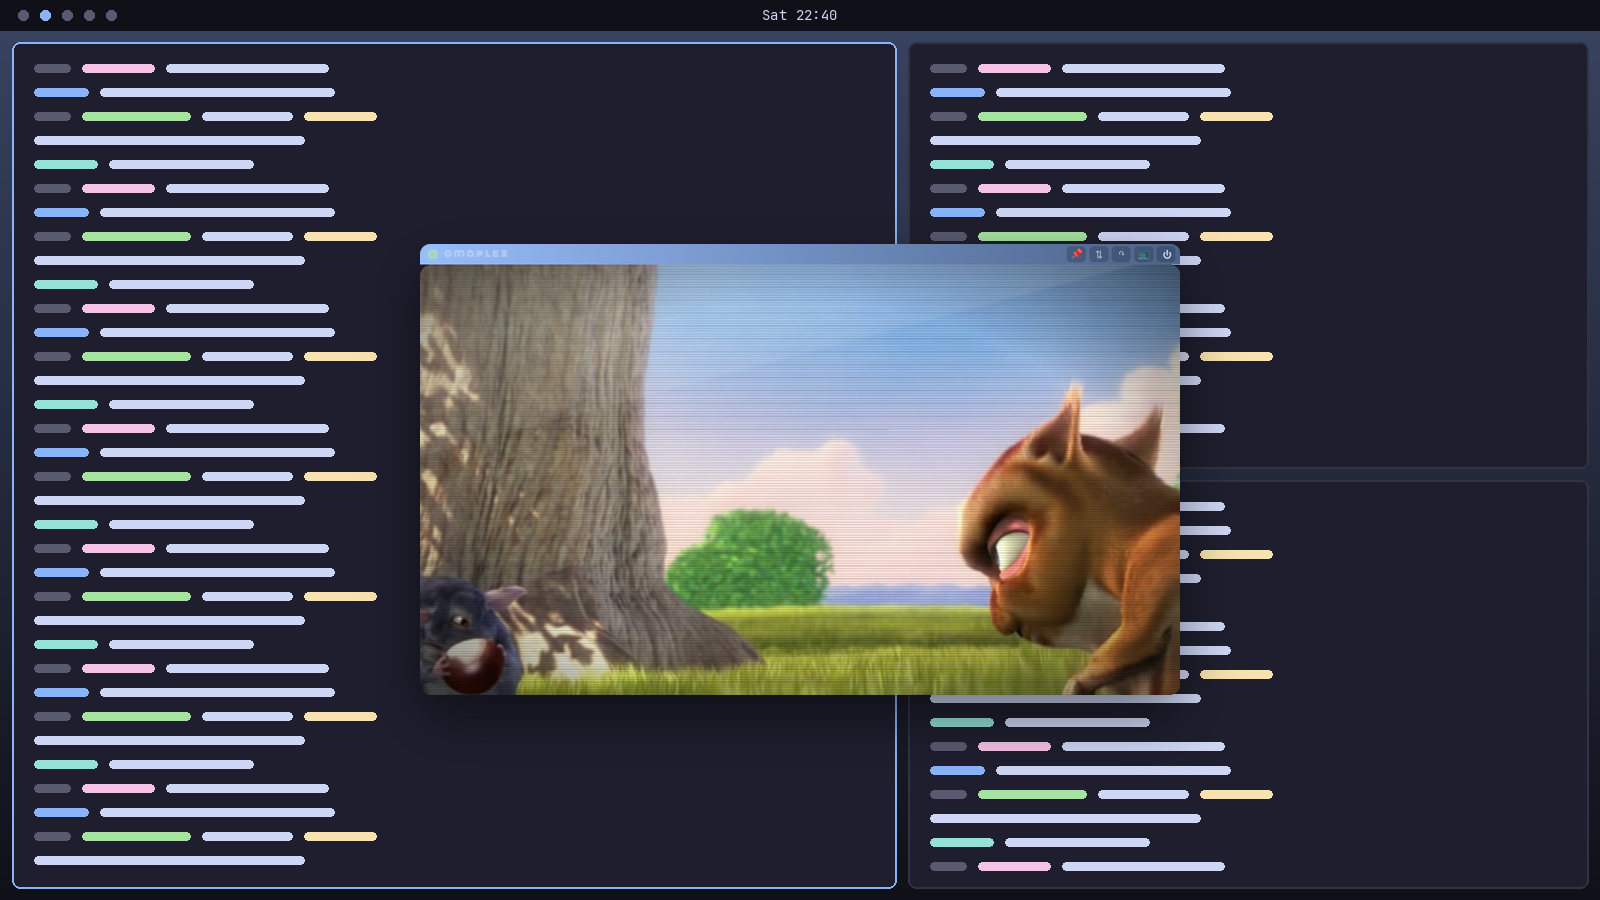
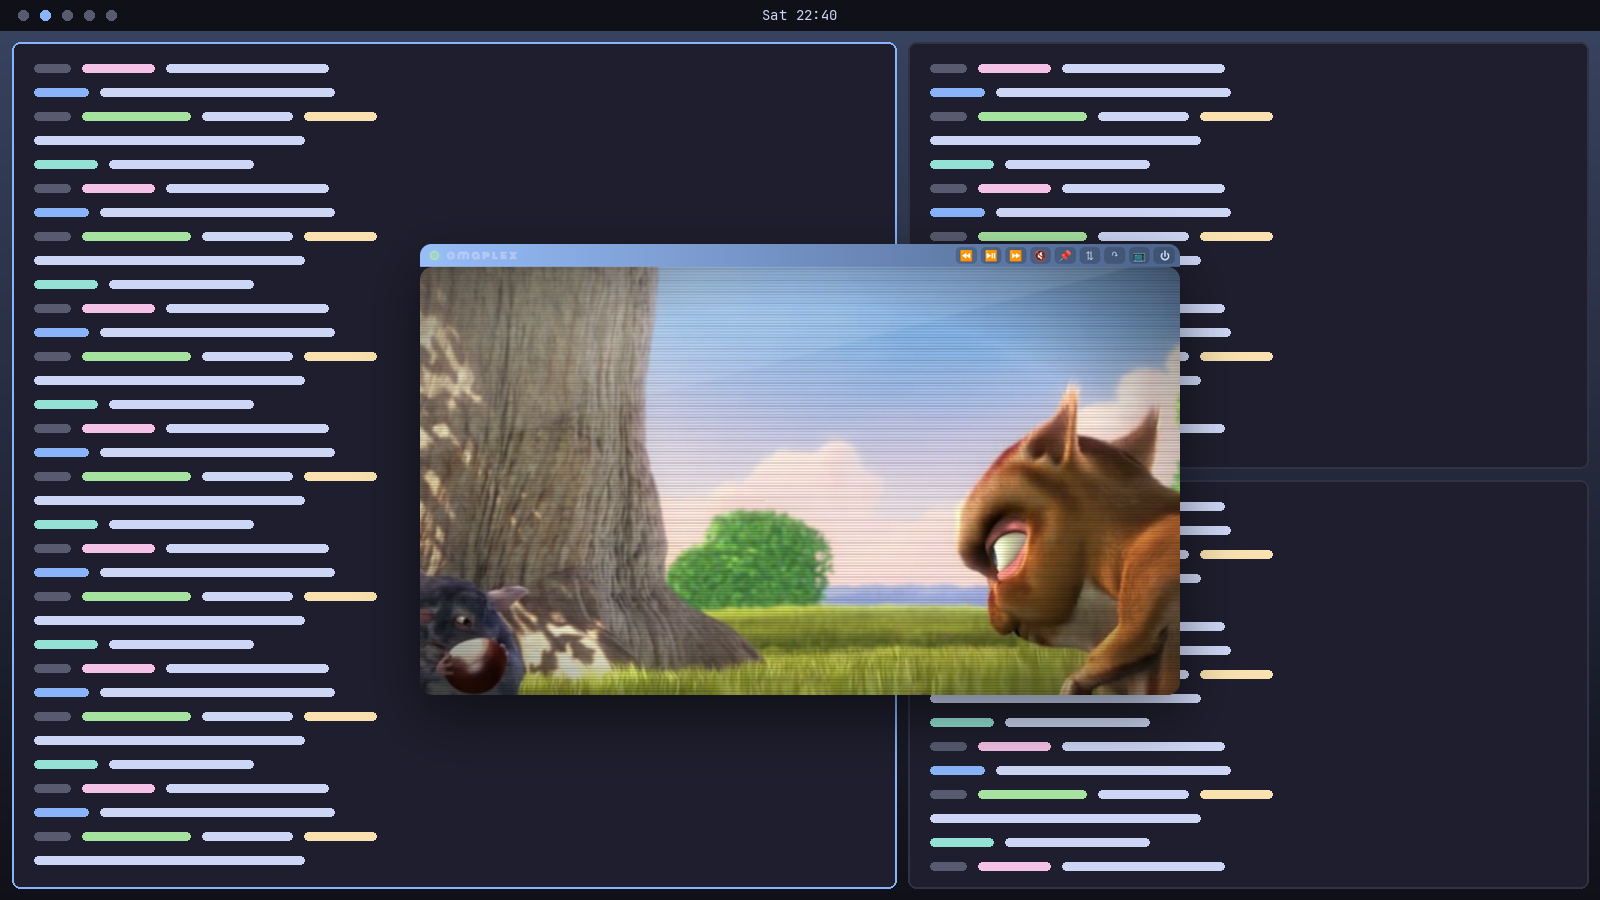
Remember dragged spots, add AWAY, captions and CLI transport
- A hand-dragged/resized TV comes back where you left it (per monitor);
  SIZE, MOVE and BARE presets take over again.
- AWAY switch: pause when stashed, resume when brought back, via
  Hyprland's event socket.
- Each new title gets an OSD caption from the Media Session metadata.
- omaplex play-pause|next|previous|forward|back control the TV directly,
  whichever MPRIS player is active.
- Regenerate the README screenshots for the new panel.

diff --git a/src/main.js b/src/main.js
@@ -2,6 +2,7 @@
 const { app, BrowserWindow, ipcMain, session } = require("electron");
 const { execFile } = require("node:child_process");
 const fs = require("node:fs");
+const net = require("node:net");
 const os = require("node:os");
 const path = require("node:path");
 
@@ -26,6 +27,8 @@ const DEFAULTS = {
   muted: false,
   profile: "", // Plex Home profile to pick at "Select User" (omaplex profile)
   pin: "",
+  away: false, // pause while stashed, resume when brought back
+  geom: null, // where you last dragged/resized it: { monitor, x, y, w, h }
 };
 
 // Window sizes (logical px) for the S/M/L presets, with and without the cabinet.
@@ -100,6 +103,38 @@ async function applyPin() {
   await dispatch(`hl.dsp.window.pin({ window = "${windowSelector(client)}", action = "${state.pinned ? "on" : "off"}" })`);
 }
 
+// Reapply a hand-dragged position/size if its monitor is still around.
+async function restoreGeom() {
+  const g = state.geom;
+  const monitors = (await hyprJson("monitors")) || [];
+  const client = await ourClient();
+  if (!g || !client || !monitors.some((m) => m.name === g.monitor)) return false;
+  const sel = windowSelector(client);
+  await dispatch(`hl.dsp.window.resize({ window = "${sel}", x = ${g.w}, y = ${g.h} })`);
+  await dispatch(`hl.dsp.window.move({ window = "${sel}", x = ${g.x}, y = ${g.y} })`);
+  lastGeom = JSON.stringify(g);
+  return true;
+}
+
+// Hyprland doesn't tell Wayland clients where they are, so check now and then
+// (and on the way out) whether the TV has been dragged or resized by hand.
+let lastGeom;
+async function trackGeom() {
+  const client = await ourClient();
+  if (!client || client.workspace.name.startsWith("special:")) return;
+  const monitors = (await hyprJson("monitors")) || [];
+  const mon = monitors.find((m) => m.id === client.monitor);
+  if (!mon) return;
+  const [x, y] = client.at;
+  const [w, h] = client.size;
+  const next = JSON.stringify({ monitor: mon.name, x, y, w, h });
+  if (lastGeom === undefined) lastGeom = next; // first sighting: nothing moved yet
+  if (next === lastGeom) return;
+  lastGeom = next;
+  state.geom = JSON.parse(next);
+  saveState();
+}
+
 async function place() {
   const client = await ourClient();
   const monitors = (await hyprJson("monitors")) || [];
@@ -120,6 +155,35 @@ async function place() {
   const sel = windowSelector(client);
   await dispatch(`hl.dsp.window.resize({ window = "${sel}", x = ${w}, y = ${h} })`);
   await dispatch(`hl.dsp.window.move({ window = "${sel}", x = ${x}, y = ${y} })`);
+  // A preset (SIZE / MOVE / BARE) replaces any hand-dragged spot.
+  state.geom = null;
+  saveState();
+  lastGeom = JSON.stringify({ monitor: mon.name, x, y, w, h });
+}
+
+// Tell the renderer when the TV is stashed on / brought back from the special
+// workspace, straight from Hyprland's event socket.
+function watchStash() {
+  const sig = process.env.HYPRLAND_INSTANCE_SIGNATURE;
+  const dir = process.env.XDG_RUNTIME_DIR;
+  if (!sig || !dir) return;
+  const sock = net.connect(path.join(dir, "hypr", sig, ".socket2.sock"));
+  let buf = "";
+  sock.on("data", async (chunk) => {
+    buf += chunk;
+    const lines = buf.split("\n");
+    buf = lines.pop();
+    for (const line of lines) {
+      const [event, data] = line.split(">>");
+      if (event !== "movewindowv2") continue;
+      const [addr, , wsName] = data.split(",");
+      const client = await ourClient();
+      if (client && client.address.replace(/^0x/, "") === addr.replace(/^0x/, "")) {
+        win?.webContents.send("stashed", wsName.startsWith("special:"));
+      }
+    }
+  });
+  sock.on("error", () => {});
 }
 
 function readThemeColors() {
@@ -180,7 +244,8 @@ function createWindow() {
   win.once("ready-to-show", async () => {
     for (let i = 0; i < 20 && !(await ourClient()); i++) await new Promise((r) => setTimeout(r, 150));
     await applyPin();
-    await place();
+    if (!(await restoreGeom())) await place();
+    setInterval(trackGeom, 4000);
   });
 }
 
@@ -212,7 +277,10 @@ ipcMain.handle("cycle-corner", async () => {
   return state;
 });
 
-ipcMain.handle("quit", () => app.quit());
+ipcMain.handle("quit", async () => {
+  await trackGeom();
+  app.quit();
+});
 
 // One TV per profile. A second launch just forwards its arguments here.
 const primary = app.requestSingleInstanceLock();
@@ -221,6 +289,8 @@ if (!primary) {
 } else {
   app.on("second-instance", (_e, argv) => {
     if (argv.includes("--reload-theme")) return checkTheme(0);
+    const media = argv.find((a) => a.startsWith("--media="));
+    if (media) return win?.webContents.send("media", media.slice("--media=".length));
     const profile = argv.find((a) => a.startsWith("--set-profile="));
     if (profile) {
       state.profile = profile.slice("--set-profile=".length);
@@ -241,6 +311,7 @@ app.whenReady().then(() => {
   });
   createWindow();
   watchTheme();
+  watchStash();
   if (process.env.OMAPLEX_CAPTURE) require("./capture")(win, process.env.OMAPLEX_CAPTURE);
 });
 

diff --git a/src/renderer.js b/src/renderer.js
@@ -69,6 +69,7 @@ function render() {
   $("vol-label").textContent = state.muted ? "MUTE" : "VOL";
   document.querySelector('.rb[data-act="mute"]').classList.toggle("on", state.muted);
   $("bare").classList.toggle("on", state.bare);
+  $("away").classList.toggle("on", state.away);
   $("size").textContent = `SIZE ${state.size}`;
   document.querySelector('.rb[data-act="pin"]').classList.toggle("on", state.pinned);
 }
@@ -109,12 +110,12 @@ function burst(ms = 450) {
 }
 
 let osdTimer;
-function osd(text) {
+function osd(text, ms = 1400) {
   const el = $("osd");
   el.textContent = text;
   el.classList.add("show");
   clearTimeout(osdTimer);
-  osdTimer = setTimeout(() => el.classList.remove("show"), 1400);
+  osdTimer = setTimeout(() => el.classList.remove("show"), ms);
 }
 
 function wiggle() {
@@ -179,6 +180,7 @@ knob($("vol"), () => volume, async (value) => {
 
 const actions = {
   pin: () => { osd(state.pinned ? "UNPINNED" : "PINNED ★ ALL WS"); return set({ pinned: !state.pinned }); },
+  away: () => { osd(state.away ? "AWAY OFF" : "AWAY: PAUSE WHEN STASHED"); return set({ away: !state.away }); },
   ghost: () => { osd(state.ghost ? "GHOST OFF" : "GHOST ON"); return set({ ghost: !state.ghost }); },
   fx: () => set({ fx: !state.fx }),
   mute: () => { plex.setAudioMuted(!state.muted); osd(state.muted ? "SOUND ON" : "MUTE"); return set({ muted: !state.muted }); },
@@ -195,7 +197,7 @@ const actions = {
   },
 };
 
-for (const id of ["pin", "ghost", "fx", "home", "size", "corner", "bare", "play", "back", "fwd", "power"]) {
+for (const id of ["pin", "ghost", "fx", "home", "size", "corner", "bare", "away", "play", "back", "fwd", "power"]) {
   $(id).addEventListener("click", actions[id]);
 }
 $("vol").addEventListener("click", () => { if (!$("vol").dragged) actions.mute(); });
@@ -245,8 +247,11 @@ const MEDIA_HOOK = `(() => {
   window.__omaplex = (cmd, arg) => {
     const m = media();
     if (!m) return null;
+    const was = !m.paused && !m.ended;
     let ok = true;
-    if (cmd === "toggle") {
+    if (cmd === "play" || cmd === "pause") {
+      handlers[cmd] ? handlers[cmd]({ action: cmd }) : m[cmd]();
+    } else if (cmd === "toggle") {
       const action = m.paused ? "play" : "pause";
       handlers[action] ? handlers[action]({ action }) : m.paused ? m.play() : m.pause();
     } else if (cmd in SKIP) {
@@ -258,7 +263,9 @@ const MEDIA_HOOK = `(() => {
       ok = !!handlers[cmd];
       if (ok) handlers[cmd]({ action: cmd });
     }
-    return { ok, playing: !m.paused && !m.ended, volume: m.volume };
+    const md = session.metadata;
+    const title = md ? [md.artist, md.title].filter(Boolean).join(" · ") : "";
+    return { ok, was, playing: !m.paused && !m.ended, volume: m.volume, title };
   };
 })()`;
 
@@ -277,15 +284,21 @@ async function transport(cmd) {
   if (!status) return osd("NO SIGNAL");
   if (!status.ok) return osd(cmd === "nexttrack" ? "NO NEXT" : "NO PREV");
   if (cmd === "previoustrack" || cmd === "nexttrack") burst(300);
-  // Play/pause reports the state from before the toggle took effect.
-  osd(cmd === "toggle" ? (status.playing ? "❚❚ PAUSE" : "▶ PLAY") : TRANSPORT_OSD[cmd]);
+  osd(cmd === "toggle" ? (status.was ? "❚❚ PAUSE" : "▶ PLAY") : TRANSPORT_OSD[cmd]);
 }
 
-// Keep the play state and VOL knob in step with Plex; the speaker grille thumps
-// along while something is playing.
+// Keep the play state and VOL knob in step with Plex, and caption each new
+// title like an old set changing programme. The speaker grille thumps along
+// while something is playing.
+let nowPlaying = "";
 setInterval(async () => {
   const status = await media("status");
   body.classList.toggle("playing", !!status?.playing);
+  const title = status?.title || "";
+  if (title !== nowPlaying) {
+    nowPlaying = title;
+    if (title) osd(`▶ ${title.toUpperCase()}`, 4000);
+  }
   if (status && status.volume !== volume) {
     volume = status.volume;
     render();
@@ -436,6 +449,22 @@ window.addEventListener("resize", fit);
   render();
   fit();
   window.tv.onState((next) => { state = next; render(); syncPicker(); });
+  // `omaplex play-pause` and friends, forwarded by the launcher.
+  const COMMANDS = { "play-pause": "toggle", next: "nexttrack", previous: "previoustrack", forward: "seekforward", back: "seekbackward" };
+  window.tv.onMedia((cmd) => COMMANDS[cmd] && transport(COMMANDS[cmd]));
+  // AWAY: pause when stashed, and resume only what we paused.
+  let pausedAway = false;
+  window.tv.onStashed(async (stashed) => {
+    if (stashed) {
+      pausedAway = false;
+      if (!state.away || !(await media("status"))?.playing) return;
+      pausedAway = !!(await media("pause"));
+    } else if (pausedAway) {
+      pausedAway = false;
+      await media("play");
+      osd("▶ WELCOME BACK");
+    }
+  });
   window.tv.onTheme((colors) => {
     theme = colors;
     if (state.skin !== "omarchy") return;

diff --git a/src/style.css b/src/style.css
@@ -176,6 +176,10 @@ body.off .fx-layer { opacity: 0; }
 
 .osd {
   inset: auto auto 14px 18px;
+  max-width: calc(100% - 36px);
+  overflow: hidden;
+  white-space: nowrap;
+  text-overflow: ellipsis;
   font-family: "Righteous", monospace;
   font-size: 22px;
   letter-spacing: 2px;
@@ -278,7 +282,6 @@ body.off .fx-layer { opacity: 0; }
 .transport, .switches { display: grid; grid-template-columns: 1fr 1fr; gap: 5px; width: 100%; }
 .transport { grid-template-columns: 1fr 1.3fr 1fr; }
 .transport .sw { font-family: system-ui, sans-serif; letter-spacing: -1px; }
-.switches .wide { grid-column: span 2; }
 .sw {
   height: 20px;
   padding: 0;

diff --git a/src/index.html b/src/index.html
@@ -64,7 +64,8 @@
           <button class="sw" id="corner" title="Jump to next corner">MOVE</button>
           <button class="sw" id="fx" title="CRT scanlines &amp; glass">FX</button>
           <button class="sw" id="home" title="Back to Plex home">HOME</button>
-          <button class="sw wide" id="bare" title="Hide the cabinet">BARE</button>
+          <button class="sw" id="bare" title="Hide the cabinet">BARE</button>
+          <button class="sw" id="away" title="Pause while stashed, resume when brought back">AWAY</button>
         </div>
 
         <div class="grille" aria-hidden="true"></div>

diff --git a/src/preload.js b/src/preload.js
@@ -7,5 +7,7 @@ contextBridge.exposeInMainWorld("tv", {
   quit: () => ipcRenderer.invoke("quit"),
   onFocus: (fn) => ipcRenderer.on("focus", (_e, focused) => fn(focused)),
   onState: (fn) => ipcRenderer.on("state", (_e, state) => fn(state)),
+  onMedia: (fn) => ipcRenderer.on("media", (_e, cmd) => fn(cmd)),
+  onStashed: (fn) => ipcRenderer.on("stashed", (_e, stashed) => fn(stashed)),
   onTheme: (fn) => ipcRenderer.on("theme", (_e, colors) => fn(colors)),
 });

diff --git a/README.md b/README.md
@@ -66,9 +66,10 @@ The installer skips the binding if the key is already taken.
 | `omaplex toggle` | Same as the keybinding |
 | `omaplex reload-theme` | Repaint from the current Omarchy theme (the theme hook runs this for you) |
 | `omaplex setup` | Add the Hyprland rule, keybinding and theme hook (`--remove` to take them out) |
+| `omaplex play-pause` · `next` · `previous` · `forward` · `back` | Control the TV directly, whichever other player is active. Handy for a keybinding of your own |
 | `omaplex profile NAME [PIN]` | Same as the 📌 on Plex's "Select User" screen: boot straight into that Home profile (`--clear` to stop) |
 | <kbd>Super</kbd> + drag | Move (or grab the cabinet or antennas) |
-| <kbd>Super</kbd> + right-drag | Resize freely |
+| <kbd>Super</kbd> + right-drag | Resize freely. omaplex remembers where you left it until you pick a SIZE or MOVE preset |
 
 ## The controls
 
@@ -84,10 +85,12 @@ The installer skips the binding if the key is already taken.
 | **MOVE** | Hop to the next screen corner |
 | **FX** | Scanlines, vignette and glass glare |
 | **HOME** | Back to the Plex home screen |
+| **AWAY** | Pause when you stash the TV, resume when you bring it back |
 | **BARE** | Lose the cabinet: a clean 16:9 screen with a slim remote strip |
 | ⏻ | CRT switch-off, then quit |
 
-The speaker grille thumps while something's playing. Bare mode's remote strip has the
+The speaker grille thumps while something's playing, and each new title gets a caption
+across the bottom of the screen. Bare mode's remote strip has the
 same transport buttons and mute.
 
 Media keys work too: omaplex shows up as an MPRIS player, so Omarchy's play/pause and
